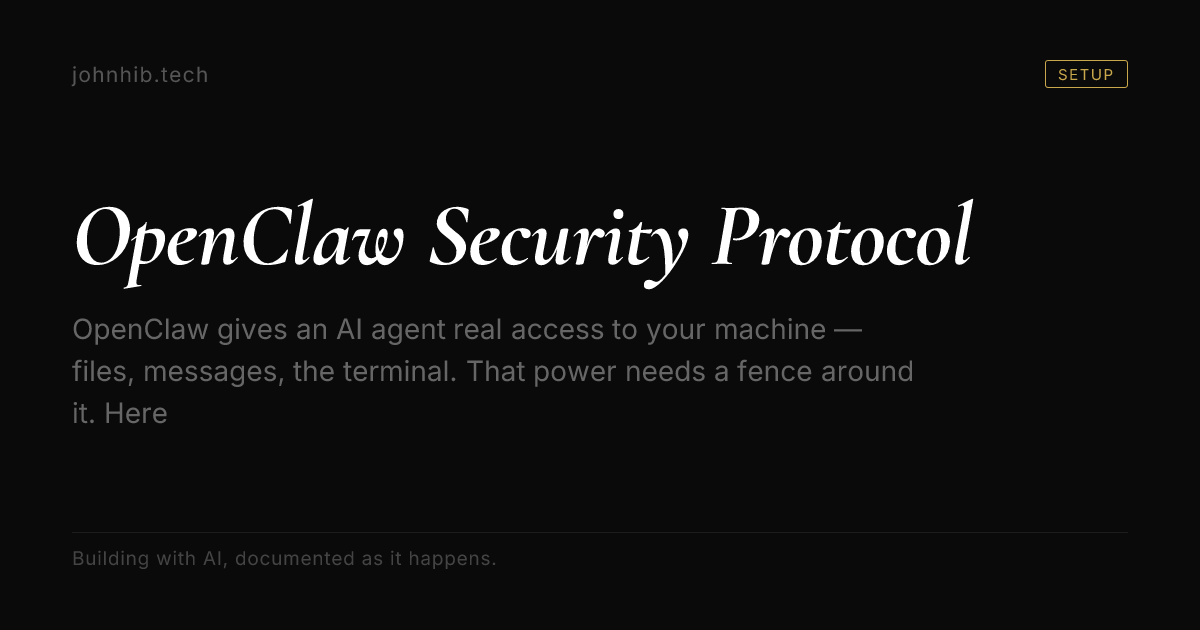
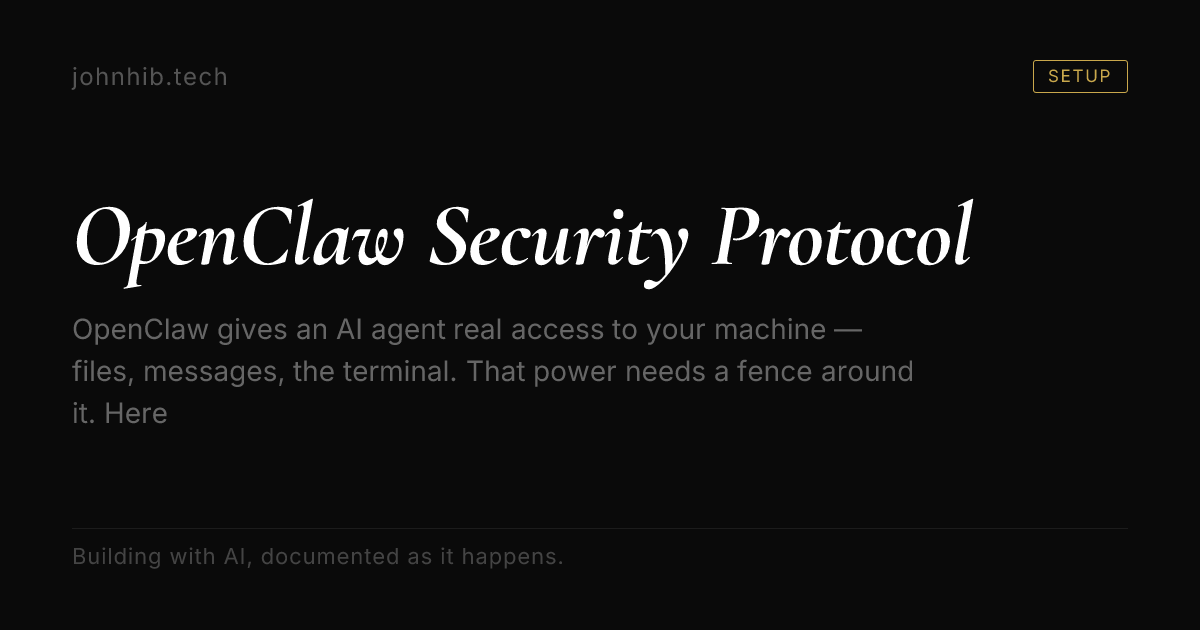
og: secondary text elements +15% (domain, tag, footer)

Changed region(s): [[0.0617, 0.8746, 0.4625, 0.9048], [0.0617, 0.0905, 0.185, 0.1508], [0.8633, 0.0905, 0.925, 0.1508]]

diff --git a/memory/2026-03-17.md b/memory/2026-03-17.md
@@ -150,6 +150,24 @@
 
 ---
 
+## Session (8:31 PM — OG Card Typography Sizing)
+
+### Changes
+- John confirmed card is rendering in iMessage (✓ working)
+- Feedback: text elements need +25% scale; subhead should close gap to header (+10% extra on top)
+- Updated `scripts/generate-og.mjs`:
+  - Title: 72 → 90px (+25%)
+  - Excerpt/subhead: 20 → 28px (+25% base + extra to close ratio; now 28/90 ≈ 31% vs old 20/72 ≈ 28%)
+  - Domain label: 17 → 21px
+  - Tag badge: 12 → 15px, padding 3/10 → 4/12
+  - Footer tagline: 15 → 19px
+- PNG sizes increased: ticket-watch 32→43KB, home 19→22KB (more ink, expected)
+- Commit: `965ded7` — "og: scale text +25%, tighten header/subhead ratio (subhead +10% extra)"
+- Deploy: `johnhib-tech-2ljxgqyt8` → live at johnhib.tech
+- Verify: `https://johnhib.tech/og/ticket-watch.png`
+
+---
+
 ## Session (afternoon/evening — Context Flush #2)
 
 ### Work Done
